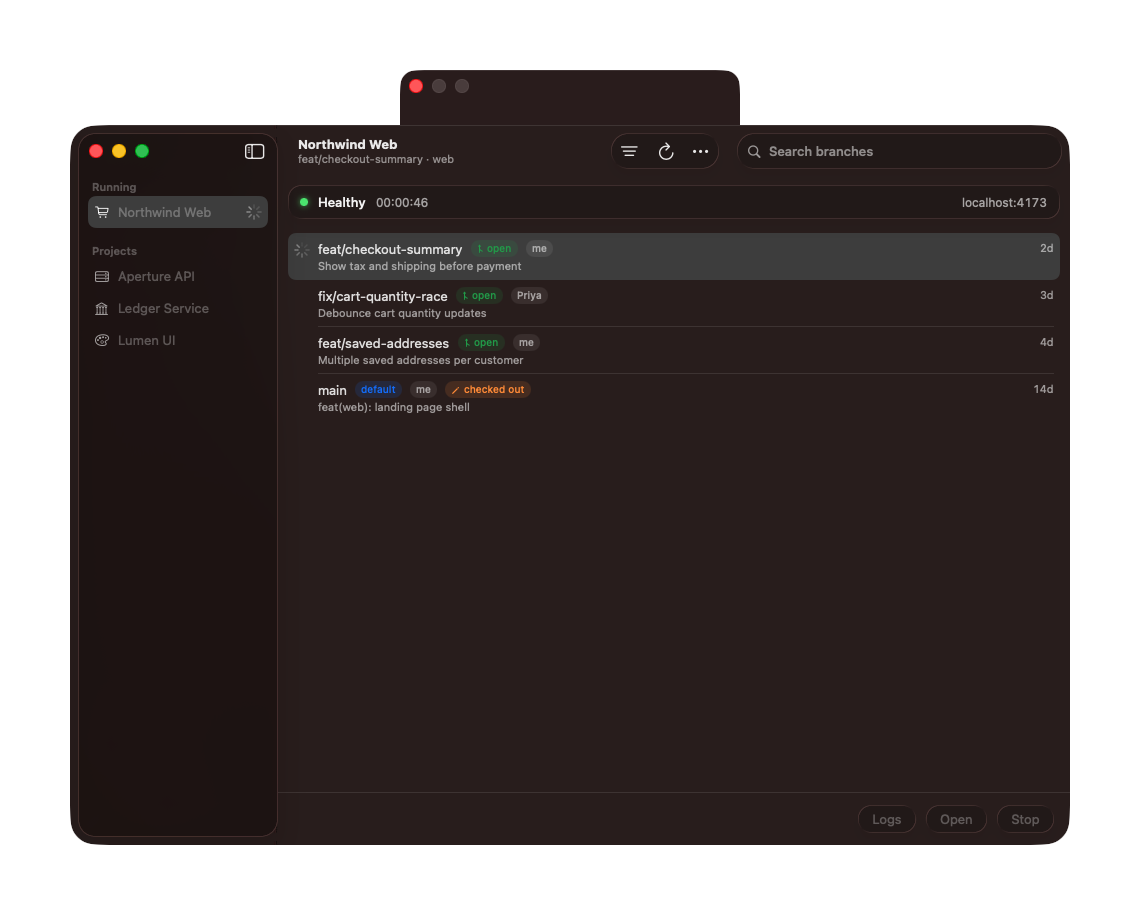
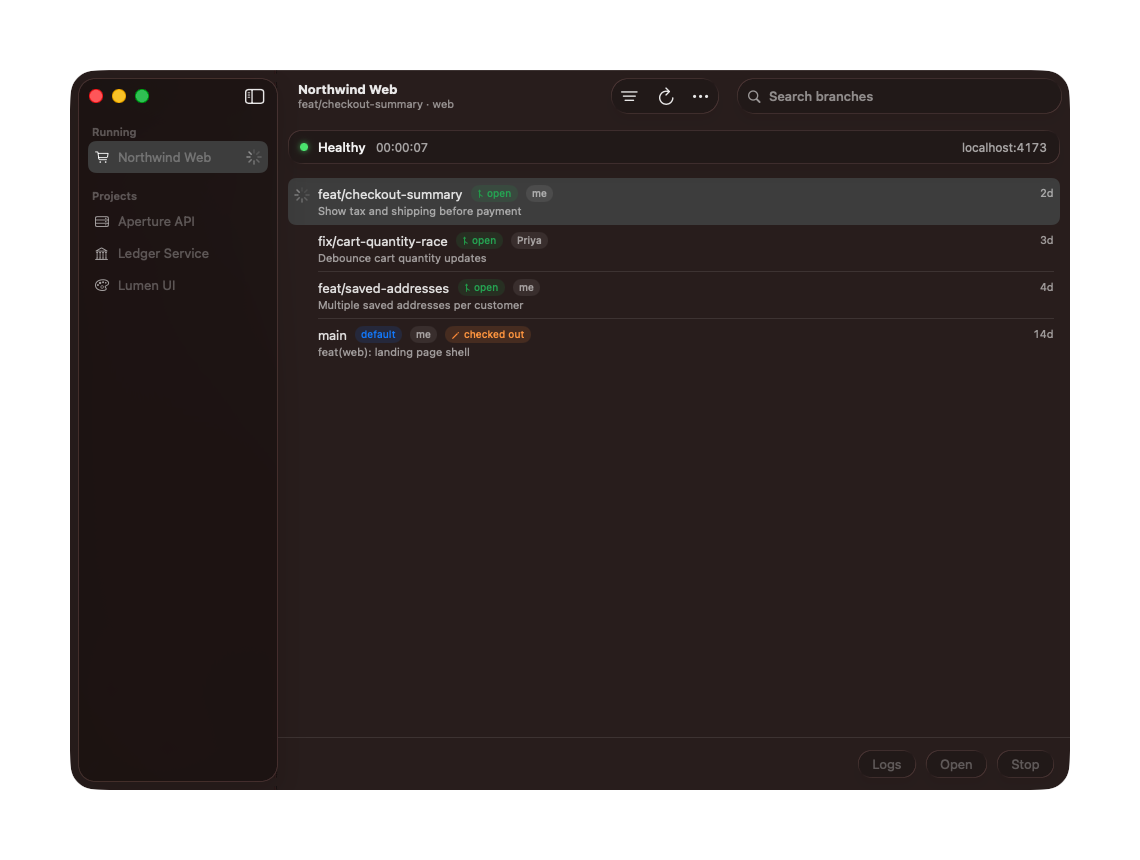
Make the SVG the mark's master, with the blend Figma dropped
Alec's SVG rendered with a blue-violet overlap where the mark's is
magenta, and my first read of that was wrong twice over.

The first comparison was invalid: the PNG is trimmed to 94% fill and the
SVG carries padding, so I was sampling different parts of differently
scaled artwork. Normalising both first is the only way the numbers mean
anything.

Then I blamed the artwork, and it was a dropped blend mode. Removing the
SVG's one mix-blend-mode layer changes the render by 9.6/1020, so that
layer was never the cause — it is a 0.2 fill-opacity inside an 0.85
group. The cause is the fourth petal: an opaque blue one painted over the
warm petals, exported with no blend mode at all. Rendering all eight CSS
blend modes and measuring each against the mark put `lighten` closest,
and Alec confirms that is what Figma shows. Figma's export had dropped
it.

So assets/mark.svg is the master now, with the blend restored and the
viewBox tightened to the artwork — the export padded it asymmetrically
(left 157, right 135), which left anything placing the file to guess.

It is rendered by tools/svg-render.swift, which uses WebKit rather than
NSImage. That is not a preference: NSImage loads the file and renders the
gradients but silently ignores mix-blend-mode, putting the overlap back
to blue-violet — a 26/1020 difference with nothing to say it happened.
Which also answers the original question: the app must not read the SVG
at runtime, because the app would render it wrong.
[…]

Changed region(s): [[0.0614, 0.0605, 0.9518, 0.4535], [0.0614, 0.8767, 0.9518, 0.9372], [0.8904, 0.3628, 0.9211, 0.393]]

diff --git a/tools/svg-render.swift b/tools/svg-render.swift
@@ -1,0 +1,97 @@
+// Render an SVG to PNG through WebKit.
+//
+//   swift tools/svg-render.swift <in.svg> <out.png> <width>
+//
+// WebKit and not NSImage, deliberately. NSImage loads SVG and renders
+// gradients, but silently ignores mix-blend-mode — and the mark's top petal
+// depends on one. The same file through both renderers differs by 26/1020,
+// with the overlap coming out blue-violet instead of magenta, and nothing says
+// anything went wrong. So the build renders with the engine that honours the
+// artwork, and the app never sees the SVG at all.
+
+import WebKit
+import AppKit
+
+final class Renderer: NSObject, WKNavigationDelegate {
+    let out: String, w: Int, h: Int
+    var finished = false
+    var failure: String?
+
+    init(out: String, w: Int, h: Int) { self.out = out; self.w = w; self.h = h }
+
+    func webView(_ web: WKWebView, didFinish navigation: WKNavigation!) {
+        let cfg = WKSnapshotConfiguration()
+        cfg.rect = CGRect(x: 0, y: 0, width: w, height: h)
+        // The compositor needs a moment before a snapshot is worth taking; a
+        // gradient-heavy document photographs blank without it.
+        DispatchQueue.main.asyncAfter(deadline: .now() + 0.8) {
+            web.takeSnapshot(with: cfg) { image, error in
+                defer { self.finished = true }
+                guard let image,
+                      let tiff = image.tiffRepresentation,
+                      let rep = NSBitmapImageRep(data: tiff),
+                      let png = rep.representation(using: .png, properties: [:]) else {
+                    self.failure = error?.localizedDescription ?? "no image"
+                    return
+                }
+                do { try png.write(to: URL(fileURLWithPath: self.out)) }
+                catch { self.failure = error.localizedDescription }
+            }
+        }
+    }
+
+    func webView(_ web: WKWebView, didFail navigation: WKNavigation!, withError error: Error) {
+        failure = error.localizedDescription
+        finished = true
+    }
+}
+
+let args = CommandLine.arguments
+guard args.count == 4, let width = Int(args[3]) else {
+    FileHandle.standardError.write(
+        "usage: svg-render <in.svg> <out.png> <width>\n".data(using: .utf8)!)
+    exit(2)
+}
+guard let svg = try? String(contentsOfFile: args[1], encoding: .utf8) else {
+    FileHandle.standardError.write("cannot read \(args[1])\n".data(using: .utf8)!)
+    exit(1)
+}
+
+// Height from the document's own aspect, so the caller gives one number and
+// cannot squash the artwork by giving two that disagree.
+var height = width
+if let m = svg.range(of: #"viewBox="[-0-9.]+ [-0-9.]+ ([0-9.]+) ([0-9.]+)""#,
+                     options: .regularExpression) {
+    let nums = svg[m].split(separator: "\"")[1].split(separator: " ").compactMap { Double($0) }
+    if nums.count == 4, nums[2] > 0 {
+        height = Int((Double(width) * nums[3] / nums[2]).rounded())
+    }
+}
+
+let html = """
+<!doctype html><meta charset="utf-8">
+<style>html,body{margin:0;padding:0;background:transparent}
+svg{display:block;width:\(width)px;height:\(height)px}</style>
+\(svg)
+"""
+
+let web = WKWebView(frame: NSRect(x: 0, y: 0, width: width, height: height),
+                    configuration: WKWebViewConfiguration())
+web.setValue(false, forKey: "drawsBackground")
+let renderer = Renderer(out: args[2], w: width, h: height)
+web.navigationDelegate = renderer
+web.loadHTMLString(html, baseURL: nil)
+
+let deadline = Date().addingTimeInterval(30)
+while !renderer.finished && Date() < deadline {
+    RunLoop.current.run(mode: .default, before: Date().addingTimeInterval(0.05))
+}
+if let failure = renderer.failure {
+    FileHandle.standardError.write("render failed: \(failure)\n".data(using: .utf8)!)
+    exit(1)
+}
+guard renderer.finished else {
+    FileHandle.standardError.write("render timed out\n".data(using: .utf8)!)
+    exit(1)
+}
+print("    \(args[2]) (\(width)x\(height))")

diff --git a/README.md b/README.md
@@ -288,9 +288,10 @@ app/RunBranch.swift   the front end
 projects/*.conf       one file per project (yours are gitignored)
 tests/engine.sh       engine tests; every case is a bug that really happened
 make-app.sh           builds Runbranch.app
-make-icons.sh         the graphic set, from assets/mark-source.png
+make-icons.sh         the graphic set, rendered from assets/mark.svg
 assets/               the mark: colour PNG, and vectors for the mono templates
-tools/                icon processing, signing identity, demo data, screenshots
+tools/                svg render, icon processing, signing identity, demo, screenshots
+assets/mark.svg       the mark. Every raster asset is rendered from it
 docs/config.md        every config key
 docs/TESTING.md       what is covered, what is not, and how to add a case
 docs/ROADMAP.md       what ships when, and why each item is worth doing
@@ -298,8 +299,8 @@ docs/VERSIONING.md    what the version numbers mean
 ```
 
 Nothing generated is committed. `Runbranch.app`, `build/` and `demo/` are all
-produced by the scripts and gitignored — the repo carries source, one logo
-source PNG, and the screenshots the README displays.
+produced by the scripts and gitignored — the repo carries source, the mark as
+a vector, and the screenshots the README displays.
 
 </details>
 
